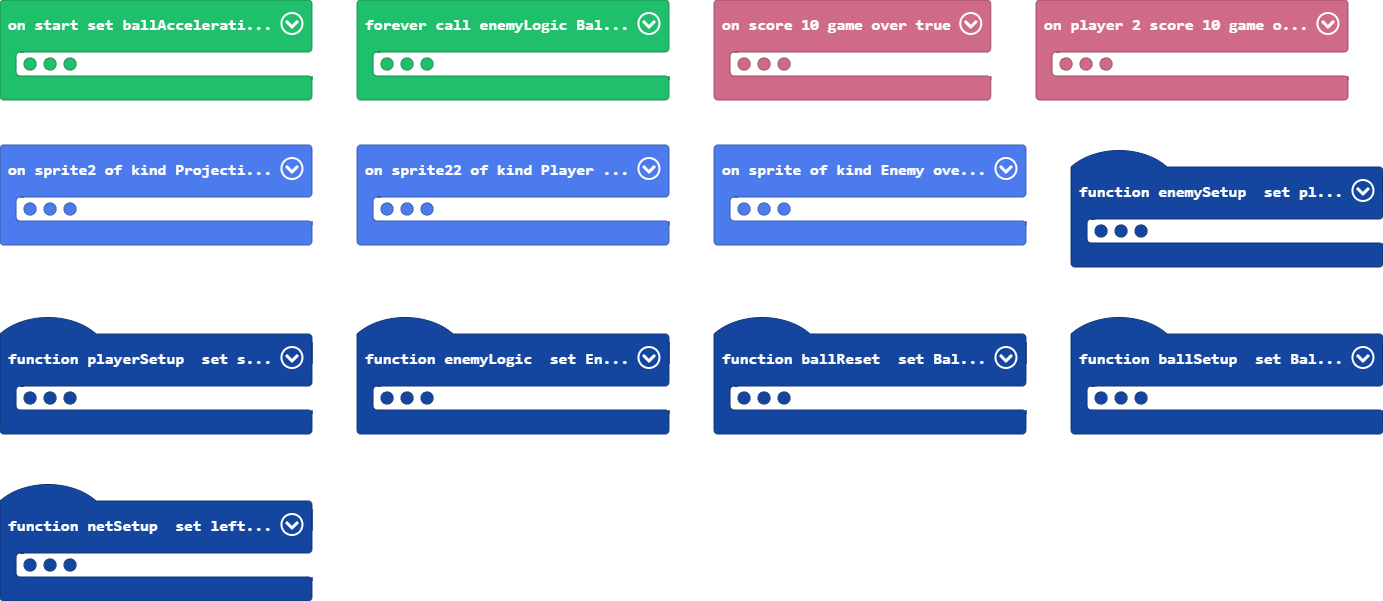
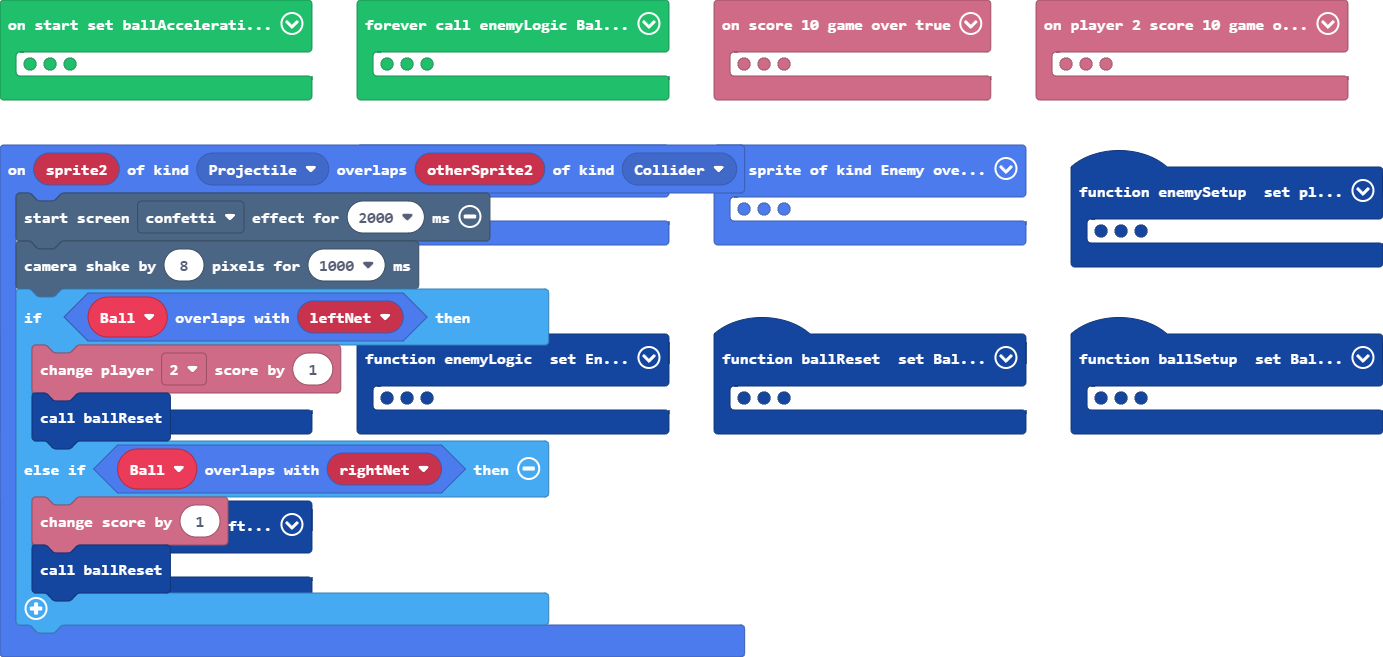
Adjusted confetti timer to be a little longer

diff --git a/main.ts b/main.ts
@@ -22,17 +22,6 @@ function ballSetup () {
 function enemyLogic () {
     EnemyPaddle.vy = (Ball.y - EnemyPaddle.y) * 10
 }
-sprites.onOverlap(SpriteKind.Projectile, SpriteKind.Collider, function (sprite2, otherSprite2) {
-    effects.confetti.startScreenEffect(1000)
-    scene.cameraShake(8, 1000)
-    if (Ball.overlapsWith(leftNet)) {
-        info.player2.changeScoreBy(1)
-        ballReset()
-    } else if (Ball.overlapsWith(rightNet)) {
-        info.changeScoreBy(1)
-        ballReset()
-    }
-})
 sprites.onOverlap(SpriteKind.Player, SpriteKind.Projectile, function (sprite22, otherSprite22) {
     Ball.setVelocity(Math.min(0 - Ball.vx * 1.5, 100), Ball.vy * ballAccelerationRate + randint(-50, 50))
     PlayerPaddle.startEffect(effects.spray, 200)
@@ -78,9 +67,20 @@ function ballReset () {
     }
     console.log(Ball.vx)
 }
-let PlayerPaddle: Sprite = null
+sprites.onOverlap(SpriteKind.Projectile, SpriteKind.Collider, function (sprite2, otherSprite2) {
+    effects.confetti.startScreenEffect(2000)
+    scene.cameraShake(8, 1000)
+    if (Ball.overlapsWith(leftNet)) {
+        info.player2.changeScoreBy(1)
+        ballReset()
+    } else if (Ball.overlapsWith(rightNet)) {
+        info.changeScoreBy(1)
+        ballReset()
+    }
+})
 let rightNet: Sprite = null
 let leftNet: Sprite = null
+let PlayerPaddle: Sprite = null
 let EnemyPaddle: Sprite = null
 let Ball: Sprite = null
 let ballAccelerationRate = 0
